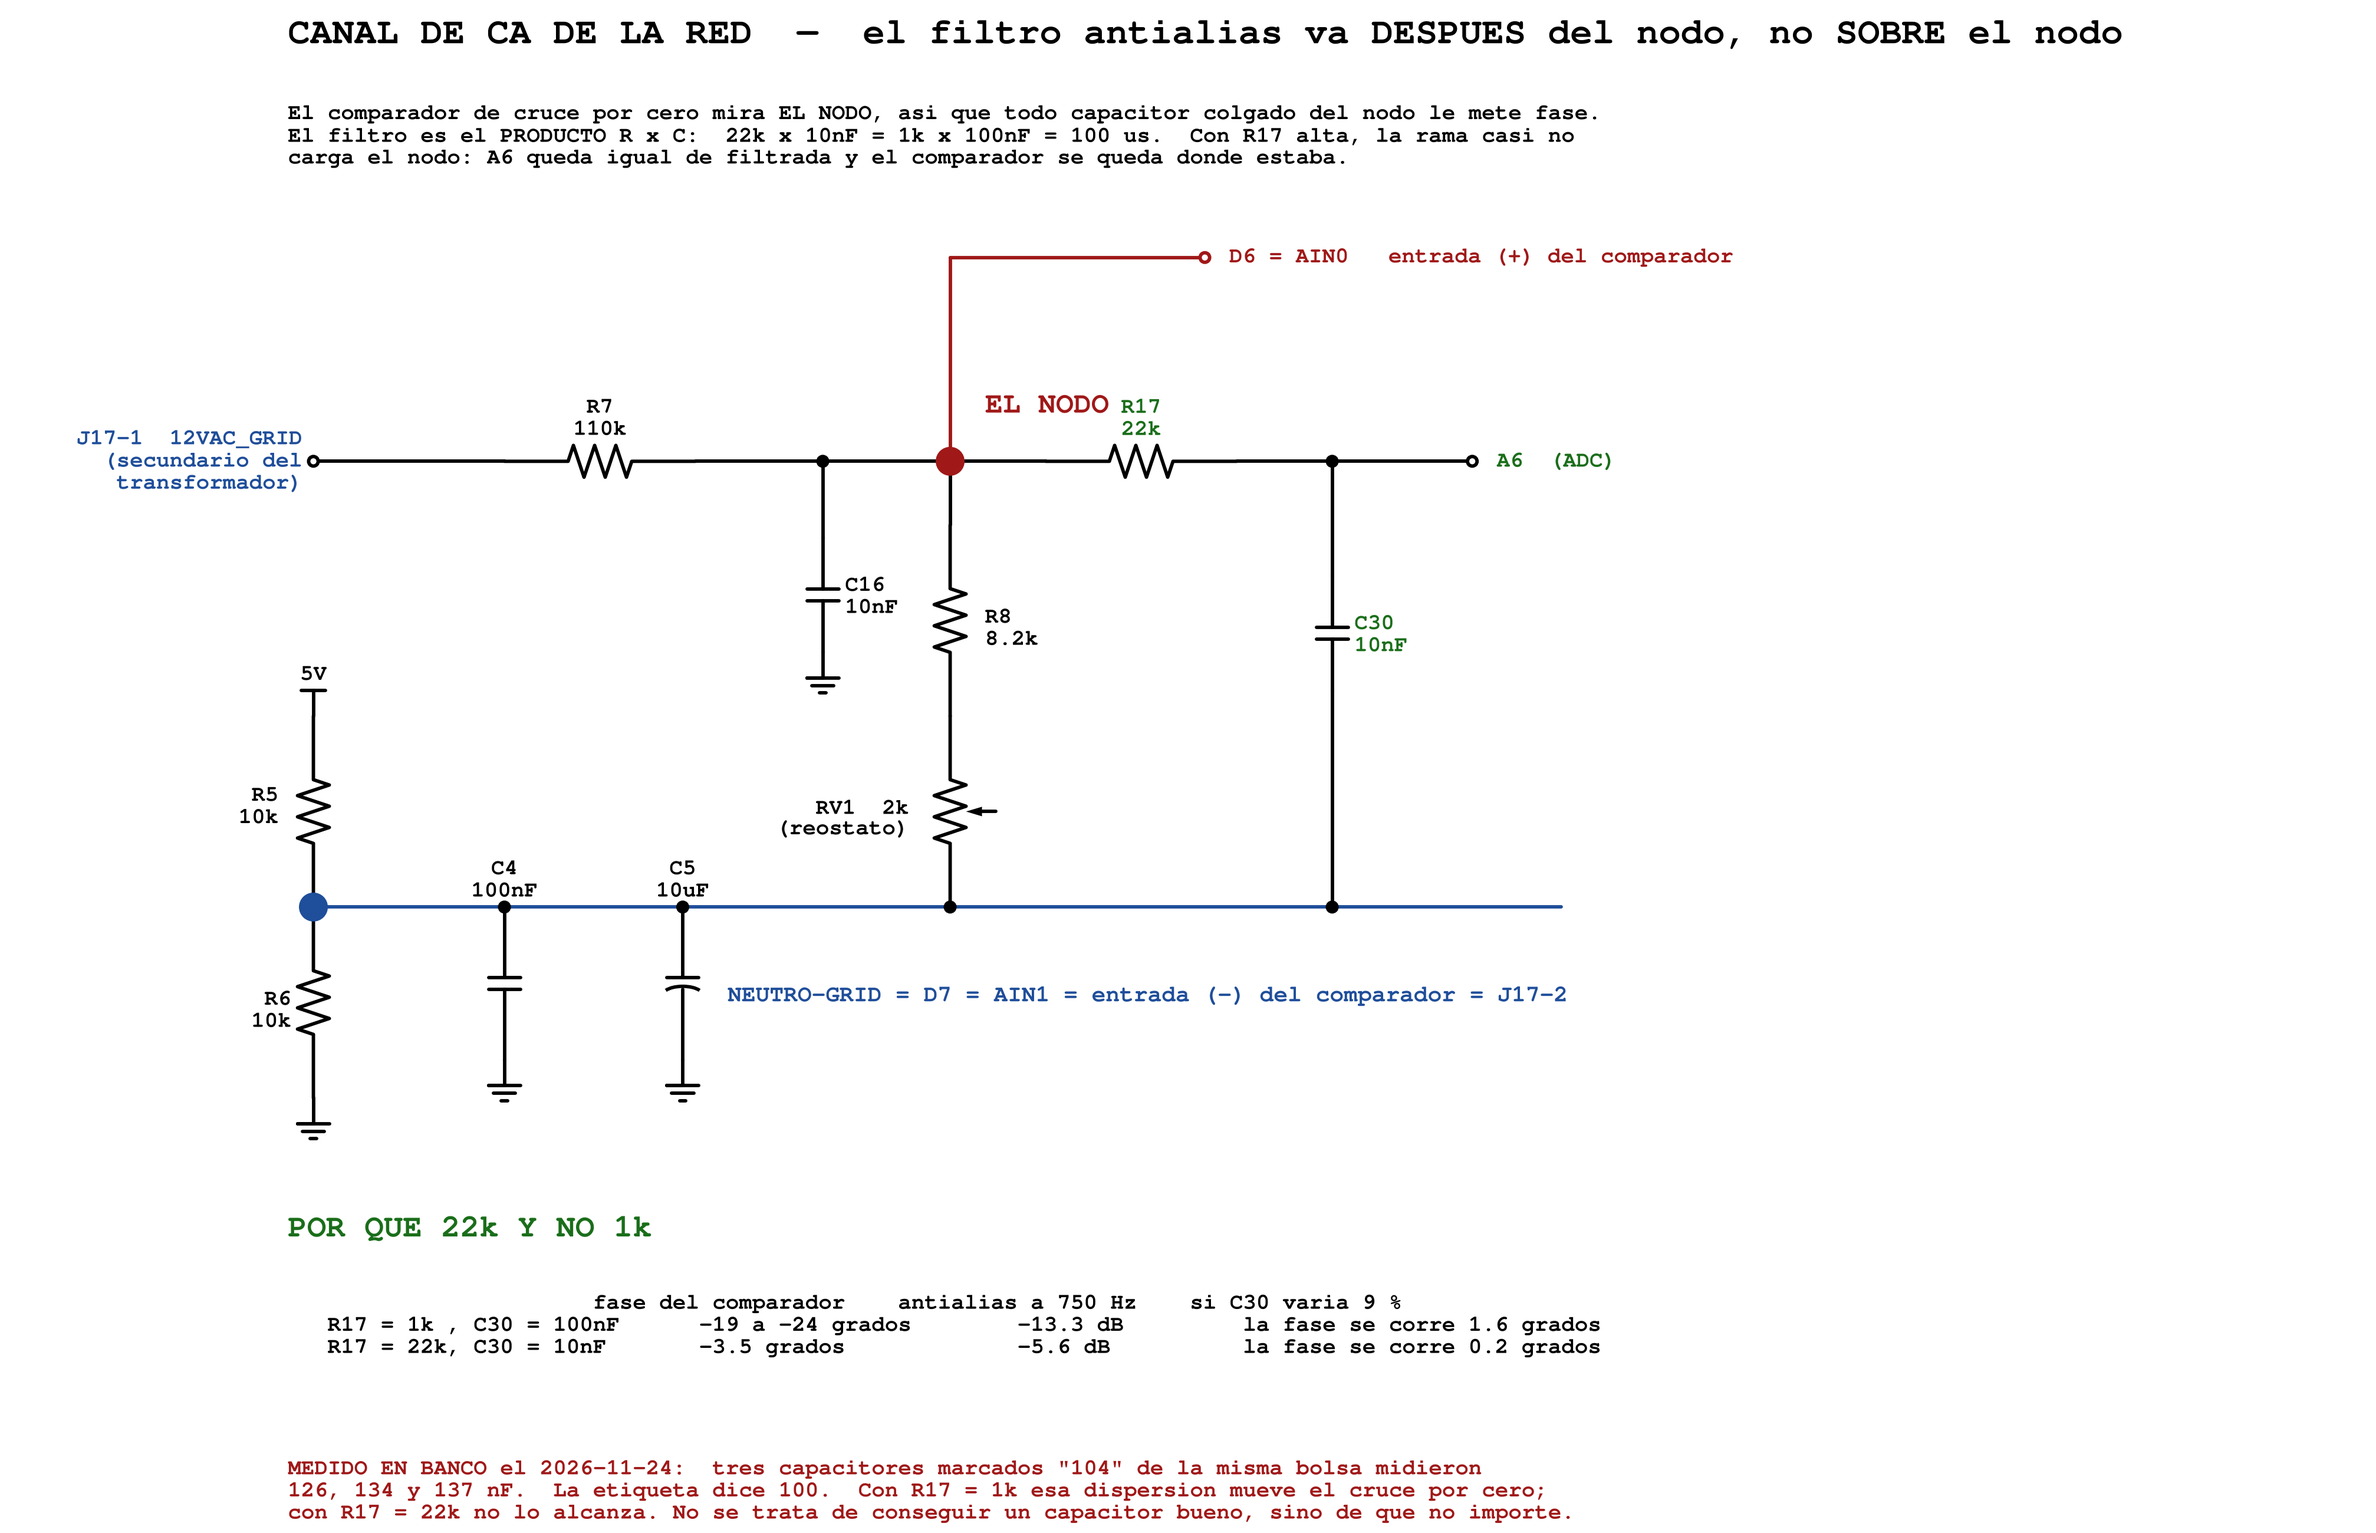
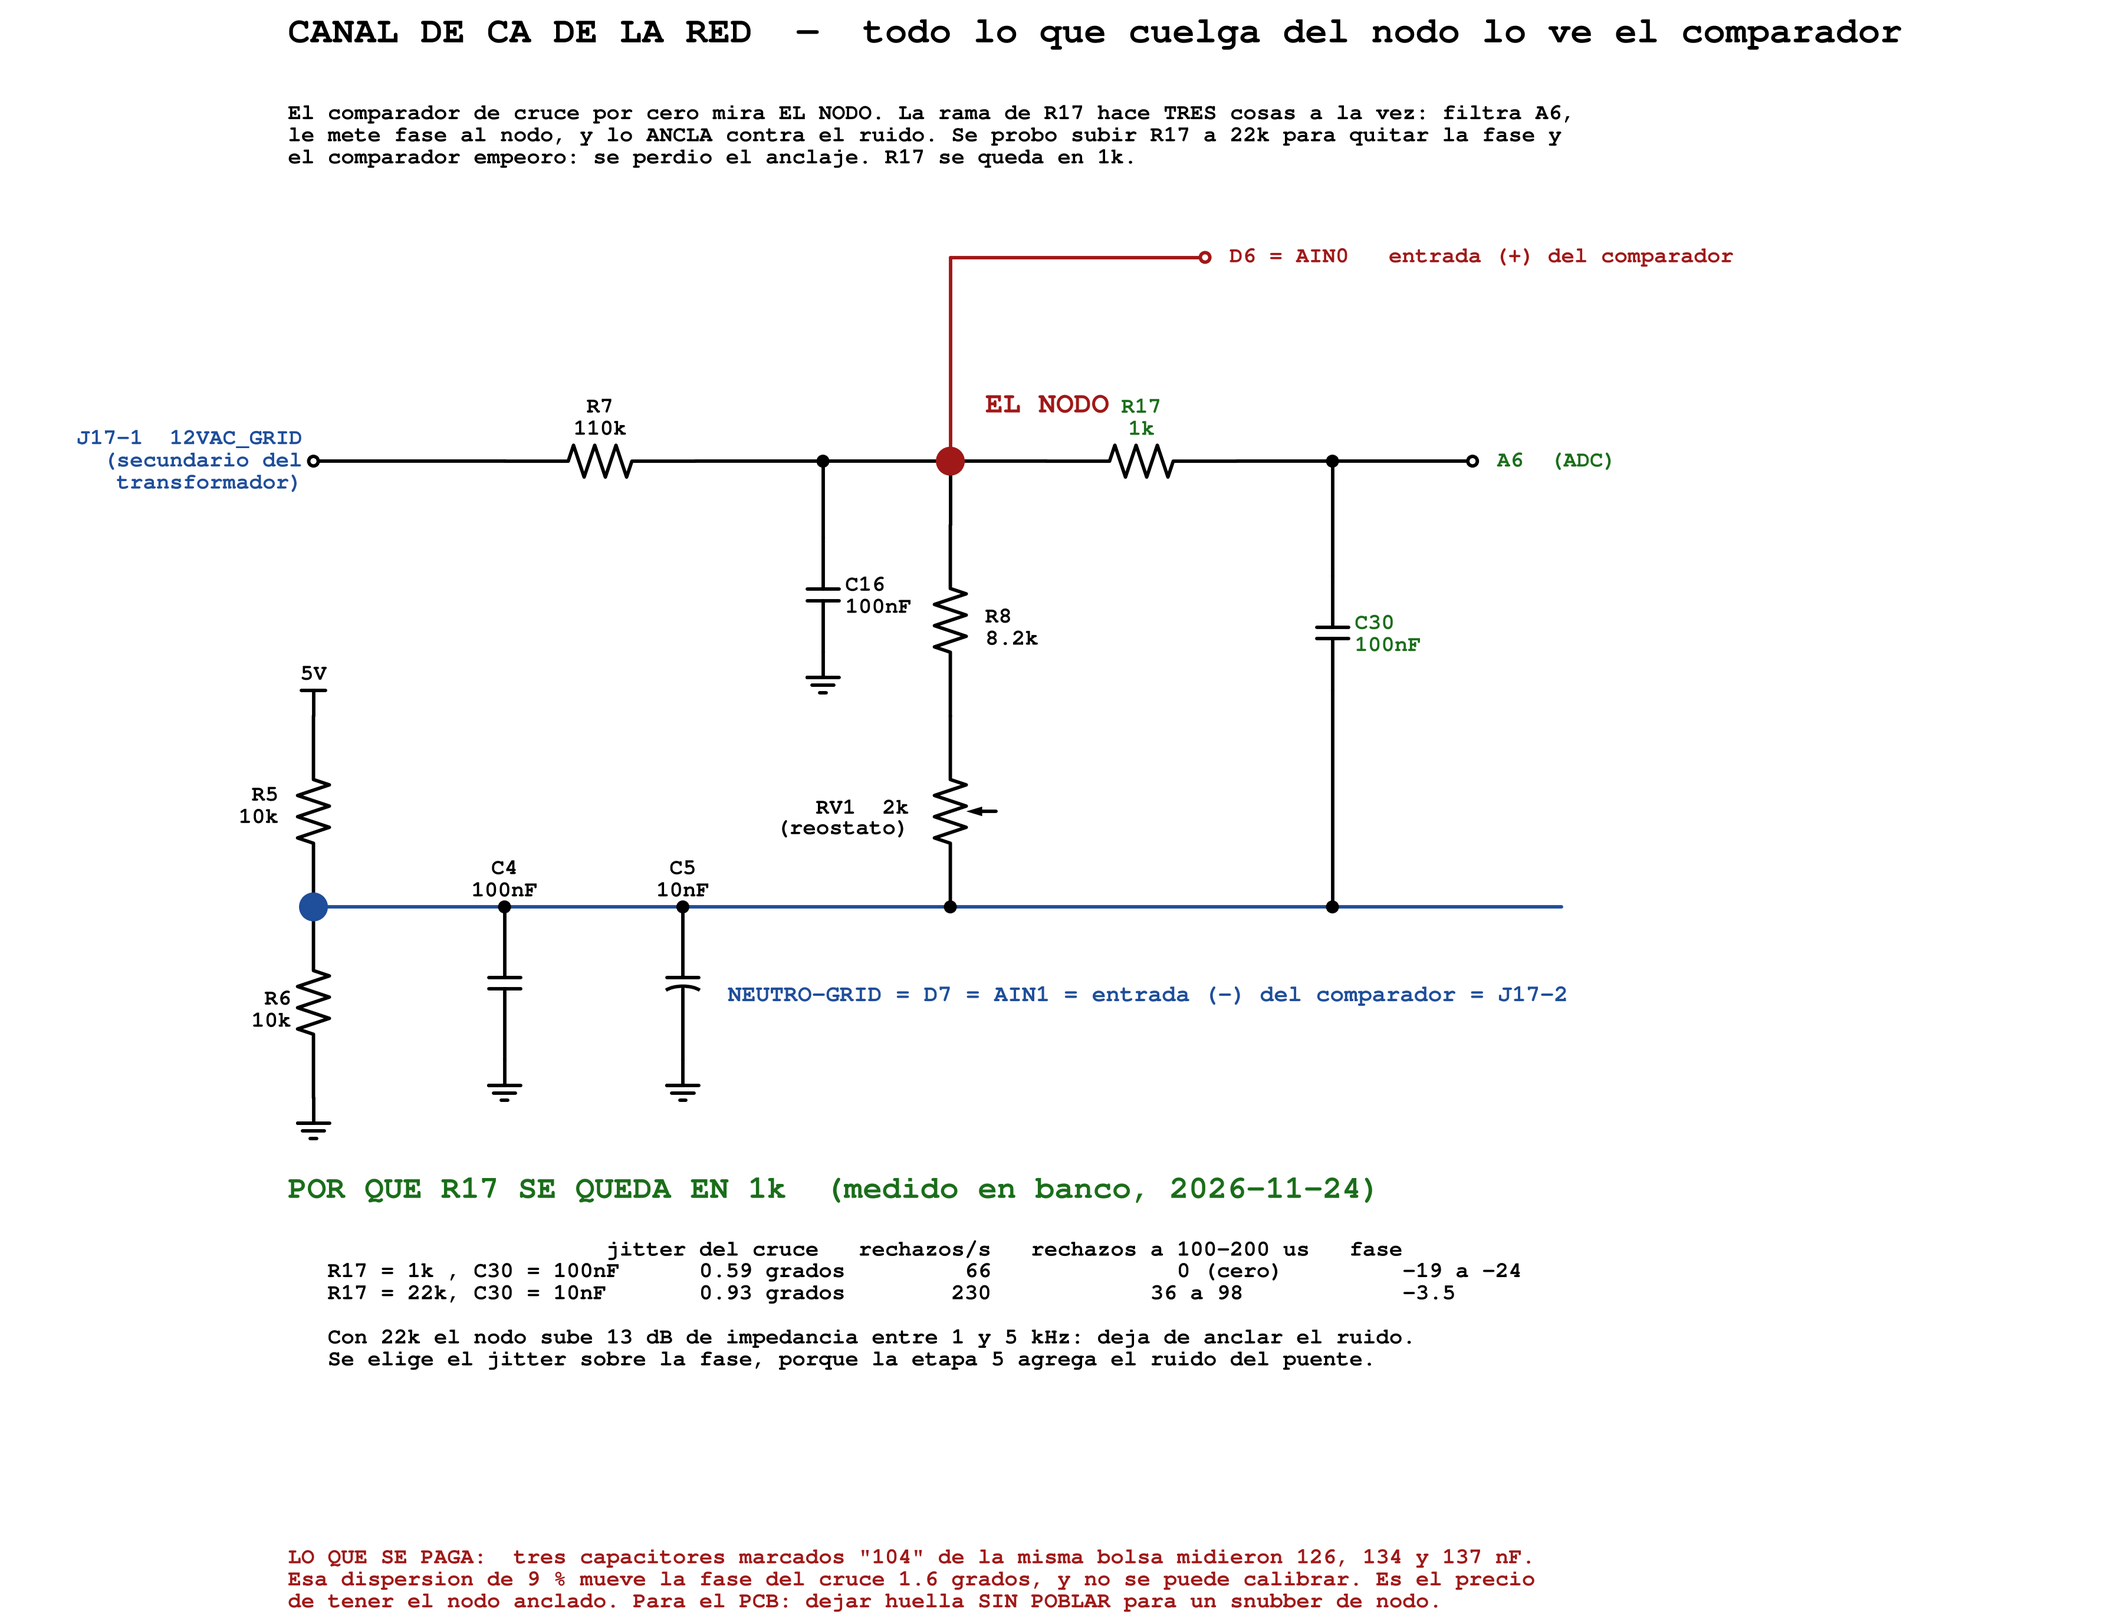
docs: DC-032 revertida en banco, R17 se queda en 1k
Se armo el 22k en banco y empeoro el comparador:

                        1k+100nF    22k+10nF
  rech por segundo          66      193-271
  por direccion            ~25      179-228
  jitter del cruce        0.59      0.78-1.13
  sigma del RMS            0.0      1.4-1.7
  rechazos a 100-200 us      0      36-98

La ultima fila delata la causa: una poblacion de rechazos que antes no
existia, o sea ruido de 2.5 a 5 kHz cruzando el umbral.

Lo que la entrada no conto: esa rama hacia TRES cosas, no dos. Ademas
del antialias de A6 y de la fase del nodo, era el cortocircuito de
ruido del nodo, y el nodo es lo que el comparador ve. Con 22k la
impedancia del nodo sube 13 dB entre 1 y 5 kHz.

Y el conflicto resulta de fondo: la carga a 60 Hz la fija solo el
capacitor (1/wC) y el anclaje en alta frecuencia lo fija la
resistencia. Ningun valor hace las dos cosas con un solo polo.

Se elige el jitter sobre la estabilidad de fase, porque el margen de
jitter es el que la etapa 5 se va a comer. Para el PCB queda anotado:
dejar huella SIN POBLAR para un snubber de nodo.

El analisis de fase y la dispersion medida de los capacitores siguen
valiendo; lo que estaba mal era la conclusion.

Diagrama regenerado con los valores finales del esquematico:
R17=1k, C16=100nF, C30=100nF, bias con C4=100nF y C5=10nF.

Claude-Session: https://claude.ai/code/session_01QeVmKMzSdVA89kmdzuChhd

diff --git a/docs/img/acondicionamiento_ac_dc032.py b/docs/img/acondicionamiento_ac_dc032.py
@@ -31,12 +31,12 @@ def build(out, dpi):
 
         # ------------------------------------------------------- títulos
         d += elm.Label().at((-10.5, YS + 6.6)).label(
-            'CANAL DE CA DE LA RED  —  el filtro antialias va DESPUES del nodo, no SOBRE el nodo',
+            'CANAL DE CA DE LA RED  —  todo lo que cuelga del nodo lo ve el comparador',
             loc='right', fontsize=30, halign='left')
         d += elm.Label().at((-10.5, YS + 5.0)).label(
-            'El comparador de cruce por cero mira EL NODO, asi que todo capacitor colgado del nodo le mete fase.\n'
-            'El filtro es el PRODUCTO R x C:  22k x 10nF = 1k x 100nF = 100 us.  Con R17 alta, la rama casi no\n'
-            'carga el nodo: A6 queda igual de filtrada y el comparador se queda donde estaba.',
+            'El comparador de cruce por cero mira EL NODO. La rama de R17 hace TRES cosas a la vez: filtra A6,\n'
+            'le mete fase al nodo, y lo ANCLA contra el ruido. Se probo subir R17 a 22k para quitar la fase y\n'
+            'el comparador empeoro: se perdio el anclaje. R17 se queda en 1k.',
             loc='right', fontsize=FS, halign='left')
 
         # --------------------------------------------- cadena de la señal
@@ -50,7 +50,7 @@ def build(out, dpi):
         # --- C16, colgada del tramo R7-nodo
         d += elm.Dot().at((-2.0, YS))
         d += elm.Capacitor().at((-2.0, YS - 1.2)).to((-2.0, YS - 3.0))\
-            .label('C16\n10nF', loc='bottom', fontsize=FS)
+            .label('C16\n100nF', loc='bottom', fontsize=FS)
         d += elm.Line().at((-2.0, YS)).to((-2.0, YS - 1.2))
         d += elm.Ground().at((-2.0, YS - 3.0))
 
@@ -68,7 +68,7 @@ def build(out, dpi):
         # --- rama de A6: R17 grande, DESPUES del nodo
         d += elm.Line().at((0.0, YS)).to((1.5, YS))
         d += elm.Resistor().at((1.5, YS)).to((4.5, YS))\
-            .label('R17\n22k', fontsize=FS, color=GREEN)
+            .label('R17\n1k', fontsize=FS, color=GREEN)
         d += elm.Line().at((4.5, YS)).to((6.0, YS))
         d += elm.Dot().at((6.0, YS))
         d += elm.Line().at((6.0, YS)).to((8.2, YS))
@@ -78,7 +78,7 @@ def build(out, dpi):
         # --- C30 del pin de A6 al bias (NO a tierra)
         d += elm.Line().at((6.0, YS)).to((6.0, YS - 1.8))
         d += elm.Capacitor().at((6.0, YS - 1.8)).to((6.0, YS - 3.6))\
-            .label('C30\n10nF', loc='bottom', fontsize=FS, color=GREEN)
+            .label('C30\n100nF', loc='bottom', fontsize=FS, color=GREEN)
         d += elm.Line().at((6.0, YS - 3.6)).to((6.0, YB))
         d += elm.Dot().at((6.0, YB))
 
@@ -112,23 +112,26 @@ def build(out, dpi):
         d += elm.Ground().at((-7.0, YB - 2.4))
         d += elm.Dot().at((-4.2, YB))
         d += elm.Capacitor2().at((-4.2, YB)).to((-4.2, YB - 2.4))\
-            .label('C5\n10uF', loc='right', fontsize=FS)
+            .label('C5\n10nF', loc='right', fontsize=FS)
         d += elm.Ground().at((-4.2, YB - 2.4))
 
         # ----------------------------------------------------- anotaciones
-        YA = YB - 5.2
+        YA = YB - 4.6
         d += elm.Label().at((-10.5, YA)).label(
-            'POR QUE 22k Y NO 1k',
+            'POR QUE R17 SE QUEDA EN 1k  (medido en banco, 2026-11-24)',
             loc='right', fontsize=26, halign='left', color=GREEN)
-        d += elm.Label().at((-10.5, YA - 1.8)).label(
-            '                       fase del comparador    antialias a 750 Hz    si C30 varia 9 %\n'
-            '   R17 = 1k , C30 = 100nF      -19 a -24 grados        -13.3 dB         la fase se corre 1.6 grados\n'
-            '   R17 = 22k, C30 = 10nF       -3.5 grados             -5.6 dB          la fase se corre 0.2 grados',
+        d += elm.Label().at((-10.5, YA - 2.6)).label(
+            '                        jitter del cruce   rechazos/s   rechazos a 100-200 us   fase\n'
+            '   R17 = 1k , C30 = 100nF      0.59 grados         66              0 (cero)         -19 a -24\n'
+            '   R17 = 22k, C30 = 10nF       0.93 grados        230            36 a 98            -3.5\n'
+            '\n'
+            '   Con 22k el nodo sube 13 dB de impedancia entre 1 y 5 kHz: deja de anclar el ruido.\n'
+            '   Se elige el jitter sobre la fase, porque la etapa 5 agrega el ruido del puente.',
             loc='right', fontsize=FS, halign='left')
-        d += elm.Label().at((-10.5, YA - 4.4)).label(
-            'MEDIDO EN BANCO el 2026-11-24:  tres capacitores marcados "104" de la misma bolsa midieron\n'
-            '126, 134 y 137 nF.  La etiqueta dice 100.  Con R17 = 1k esa dispersion mueve el cruce por cero;\n'
-            'con R17 = 22k no lo alcanza. No se trata de conseguir un capacitor bueno, sino de que no importe.',
+        d += elm.Label().at((-10.5, YA - 6.4)).label(
+            'LO QUE SE PAGA:  tres capacitores marcados "104" de la misma bolsa midieron 126, 134 y 137 nF.\n'
+            'Esa dispersion de 9 % mueve la fase del cruce 1.6 grados, y no se puede calibrar. Es el precio\n'
+            'de tener el nodo anclado. Para el PCB: dejar huella SIN POBLAR para un snubber de nodo.',
             loc='right', fontsize=FS, halign='left', color=RED)
 
 

diff --git a/docs/decisiones_criticas.md b/docs/decisiones_criticas.md
@@ -58,7 +58,7 @@ Las decisiones de este documento **pueden criticarse**, y deben hacerlo: si algu
 | [DC-029](#dc-029-la-referencia-del-adc-es-avcc-y-eso-se-lleva-la-calibración-adentro) | La referencia del ADC es AVCC, y eso se lleva la calibración adentro | Control | 2026-11-24 | Vigente (por implementar) |
 | [DC-030](#dc-030-el-enlace-can-con-el-bms-la-batería-es-la-autoridad-sobre-los-límites-y-nosotros-nada-más-latimos) | El enlace CAN con el BMS: la batería es la autoridad sobre los límites | Control | 2026-11-24 | Vigente (por implementar) |
 | [DC-031](#dc-031-r3-del-canal-de-batería-sube-de-1-kω-a-47-kω-y-por-qué-un-zener-no-servía) | R3 del canal de batería sube de 1 kΩ a 47 kΩ, y por qué un zener no servía | Control | 2026-11-24 | Vigente |
-| [DC-032](#dc-032-el-filtro-antialias-va-después-del-nodo-no-sobre-el-nodo-r17-sube-de-1-kω-a-22-kω) | El filtro antialias va después del nodo, no sobre el nodo: R17 sube a 22 kΩ | Control | 2026-11-24 | Vigente |
+| [DC-032](#dc-032-el-filtro-antialias-va-después-del-nodo-no-sobre-el-nodo-r17-sube-de-1-kω-a-22-kω) | El filtro del nodo: por qué R17 se queda en 1 kΩ (decisión revertida en banco) | Control | 2026-11-24 | ⚠ Revertida |
 | [Críticas esperadas](#críticas-esperadas-y-preguntas-abiertas) | Lo que sabemos que se puede discutir | — | 2026-11-06 | Abierto |
 
 ---
@@ -2256,7 +2256,48 @@ recarga entre muestras (A3 a 750/s)     16 nA      ← nada
 
 > **El comparador de cruce por cero mira el nodo.** Todo capacitor colgado del nodo le mete fase, y la fase que mete depende de un valor que el fabricante del capacitor no garantiza. La salida no es conseguir un capacitor bueno: es que el capacitor no alcance al comparador.
 
-**Estado: vigente (V1).** Escrita el 24 de noviembre de 2026, a partir de tres mediciones de banco hechas ese mismo día.
+**Estado: ⚠ LA DECISIÓN SE REVIRTIÓ EN BANCO EL MISMO DÍA. `R17` se queda en 1 kΩ.** El análisis de fase y la medición de la dispersión de los capacitores siguen valiendo; lo que estaba mal era la conclusión. Escrita el 24 de noviembre de 2026.
+
+> ## ⚠ Corrección: `R17 = 22 kΩ` se probó y empeoró el comparador
+>
+> Se armó en banco el mismo día y el resultado fue inequívoco:
+>
+> | | 1 kΩ + 100 nF | **22 kΩ + 10 nF** |
+> | --- | --- | --- |
+> | `rech` por segundo | 66 | **193 – 271** |
+> | `por direccion` | ~25 | **179 – 228** |
+> | jitter del cruce | 0.59 – 0.67° | **0.78 – 1.13°** |
+> | σ del RMS | 0.0 c | **1.4 – 1.7 c** |
+> | rechazos a 100–200 µs | **0** | **36 – 98** |
+>
+> La última fila delata la causa: **una población de rechazos que antes no existía**, a 100–200 µs, o sea ruido de 2.5 a 5 kHz cruzando el umbral.
+>
+> **Lo que esta entrada no contó: esa rama hacía *tres* cosas, no dos.** Además del antialias de A6 y de la fase del nodo, era **el cortocircuito de ruido del nodo** — y el nodo es lo que el comparador ve:
+>
+> ```
+> IMPEDANCIA DEL NODO     1k+100nF    22k+10nF
+>       60 Hz               7629 Ω      8460 Ω     +0.9 dB
+>     1000 Hz               1320 Ω      5885 Ω    +13.0 dB
+>     2500 Hz                929 Ω      4299 Ω    +13.3 dB
+>     5000 Hz                838 Ω      2783 Ω    +10.4 dB
+> ```
+>
+> **Trece decibeles más de ruido justo en la banda donde aparecieron los rechazos nuevos.** Con 1 kΩ en serie la rama anclaba el nodo a ~1 kΩ arriba del kilohertz; con 22 kΩ ya no ancla nada.
+>
+> **Y el conflicto resulta ser de fondo.** La carga a 60 Hz la fija **sólo el capacitor** (1/ωC); el anclaje en alta frecuencia lo fija **la resistencia**. Para aplastar el nodo a 2.5 kHz hace falta un capacitor del orden de 100 nF, y ése por física cobra los grados a 60 Hz. **Ningún valor hace las dos cosas con un solo polo**, que es lo mismo que el protocolo ya decía de C16.
+>
+> **Hay que elegir, y las dos opciones pasan el criterio de hoy:**
+>
+> | | jitter | `rech` | fase del cruce |
+> | --- | --- | --- | --- |
+> | ✅ **1 kΩ + 100 nF** | **0.59°** | 66 | −19 a −24°, y se mueve con el capacitor |
+> | ❌ 22 kΩ + 10 nF | 0.93° | 230 | −3.5°, estable |
+>
+> Se elige el jitter sobre la estabilidad de fase porque **el margen de jitter es el que la etapa 5 se va a comer**: el puente conmutando al lado es exactamente el ruido que el anclaje de 1 kΩ absorbe. Un corrimiento de fase constante se compensa en firmware; el ruido en el instante del cruce, no.
+>
+> 📌 **Para el PCB: dejar huella sin poblar para un snubber de nodo** (resistencia + capacitor en serie, del nodo a GND). Cuesta dos huellas y cero componentes, y es lo único que no se puede agregar después de fabricar.
+>
+> 📌 **La lección, que es la cuarta de la misma familia en un día:** conté dos funciones de una pieza y tenía tres. **Antes de cambiar un componente de un nodo compartido hay que listar todo lo que cuelga de ese nodo y qué le pide cada uno.**
 
 ![Canal de CA de la red](img/acondicionamiento_ac_dc032.png)
 
